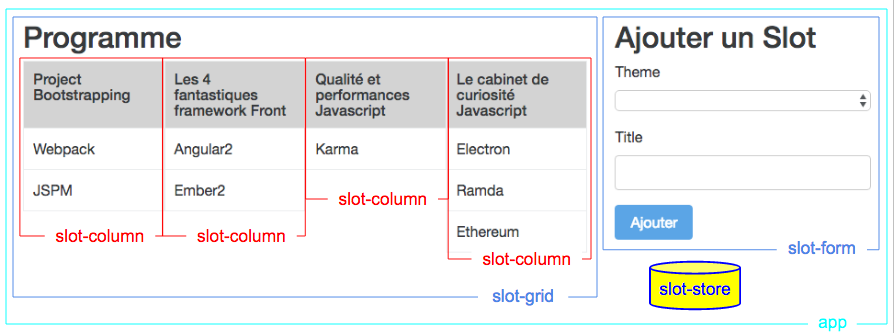
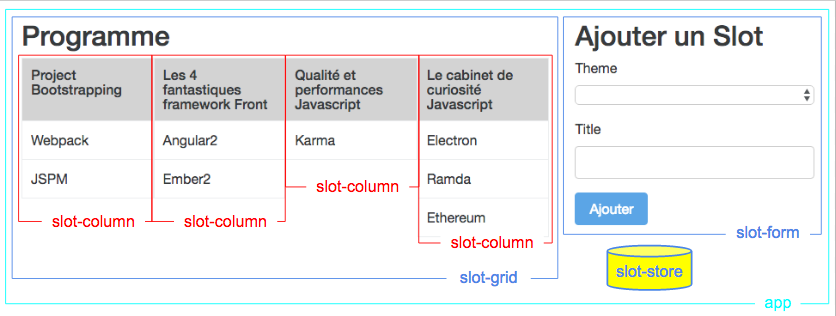
Simplify: move styles to styles.css file

diff --git a/app/slot-grid/slot-column/slot-column.component.ts b/app/slot-grid/slot-column/slot-column.component.ts
@@ -5,35 +5,12 @@ import {SlotColumn} from "../../slot-store/slot-store.service";
   selector: 'slot-column',
   template: `
     <section>
-      <h4>{{data.theme}}</h4>
+      <h4>{{ data.theme }}</h4>
       <div *ngFor="let slot of data.slots">
         {{ slot.title }}
       </div>
     </section>
-  `,
-  styles: [`
-    section { 
-      display: inline-block;
-      margin: 0;
-      vertical-align: top;
-    }
-    h4 {
-      background: lightgray;
-      margin: 0;
-      padding: 10px;
-      min-height: 72px;
-      font-size: 16px;
-    }
-    div {
-      border-top: 1px solid #eceeef;
-      padding: 10px;
-    }
-    :host {
-      display: inline-block;
-      vertical-align: top;
-      border: 1px solid #eceeef;
-    }
-  `]
+  `
 })
 export class SlotColumnComponent {
 

diff --git a/app/slot-form/slot-form.component.ts b/app/slot-form/slot-form.component.ts
@@ -8,7 +8,7 @@ import {Component, Input, Output, EventEmitter} from "@angular/core";
       <div class="form-group">
         <label for="slot-column">Theme</label>
         <select id="slot-column" class="form-control" required [(ngModel)]="model.theme">
-          <option *ngFor="let theme of themes" [value]="theme">{{theme}}</option>
+          <option *ngFor="let theme of themes" [value]="theme">{{ theme }}</option>
         </select>
       </div>
 
@@ -21,12 +21,7 @@ import {Component, Input, Output, EventEmitter} from "@angular/core";
     </form>
     `,
   providers: [],
-  directives: [],
-  styles: [`
-    :host {
-      display: inline-block;
-    }
-  `]
+  directives: []
 })
 export class SlotFormComponent {
   @Input()

diff --git a/styles.css b/styles.css
@@ -3,3 +3,36 @@ my-app {
   display: inline-block;
 }
 
+slot-form {
+  display: inline-block;
+}
+
+slot-grid {
+  width: 640px;
+  display: inline-block;
+  vertical-align: top;
+}
+
+slot-column {
+  width: 24%;
+  display: inline-block;
+  vertical-align: top;
+  border: 1px solid #eceeef;
+}
+
+slot-column section {
+  display: inline-block;
+  margin: 0;
+  vertical-align: top;
+}
+slot-column h4 {
+  background: lightgray;
+  margin: 0;
+  padding: 10px;
+  min-height: 72px;
+  font-size: 16px;
+}
+slot-column div {
+  border-top: 1px solid #eceeef;
+  padding: 10px;
+}

diff --git a/app/slot-grid/slot-grid.component.ts b/app/slot-grid/slot-grid.component.ts
@@ -7,22 +7,9 @@ import {SlotColumnComponent} from "./slot-column/slot-column.component";
   template: `    
     <h2>Programme</h2>
     <slot-column *ngFor="let slotColumn of columns" [data]="slotColumn"></slot-column>
-    `,
+  `,
   providers: [],
-  directives: [SlotColumnComponent],
-  styles: [
-    `
-    :host {
-      width: 640px;
-      display: inline-block;
-      vertical-align: top;
-    }
-    slot-column {
-      width: 24%;
-      display: inline-block;
-    }
-    `
-  ]
+  directives: [SlotColumnComponent]
 })
 export class SlotGridComponent {
 
